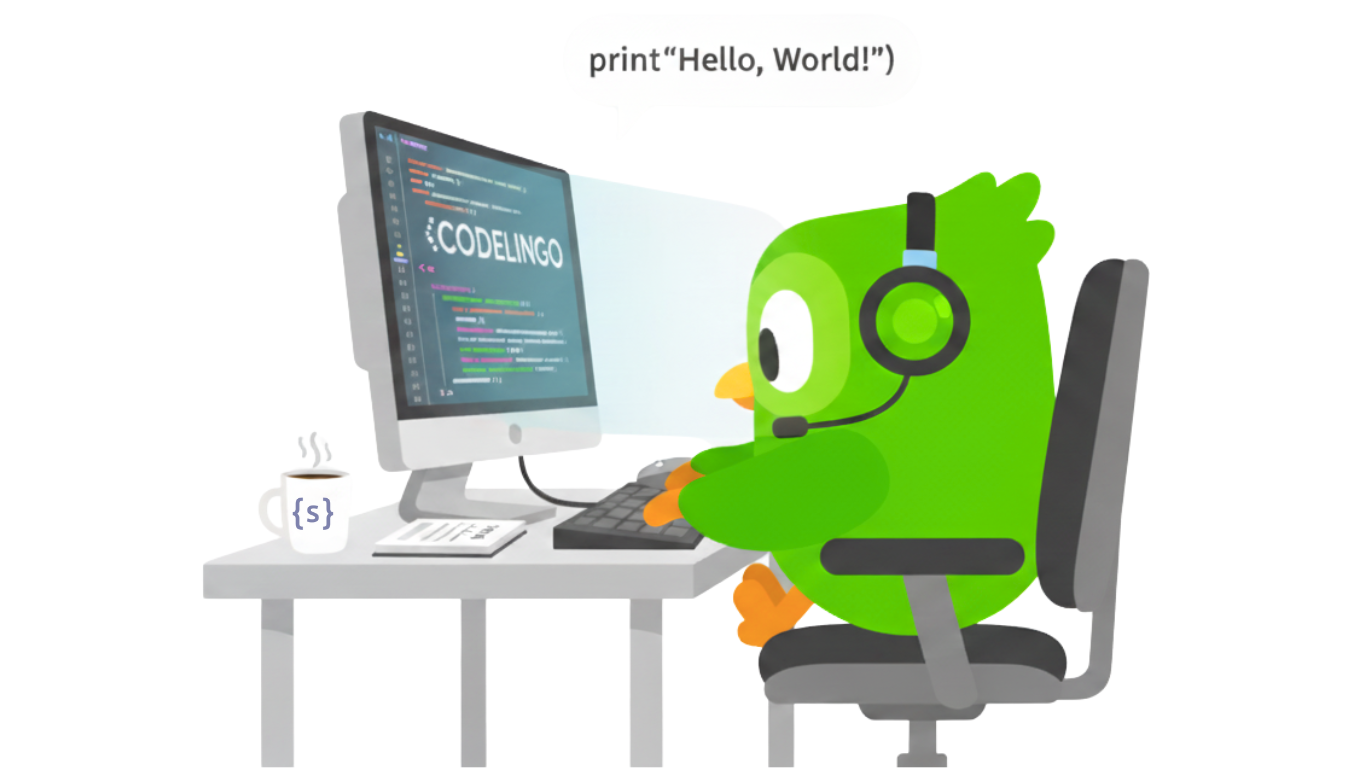
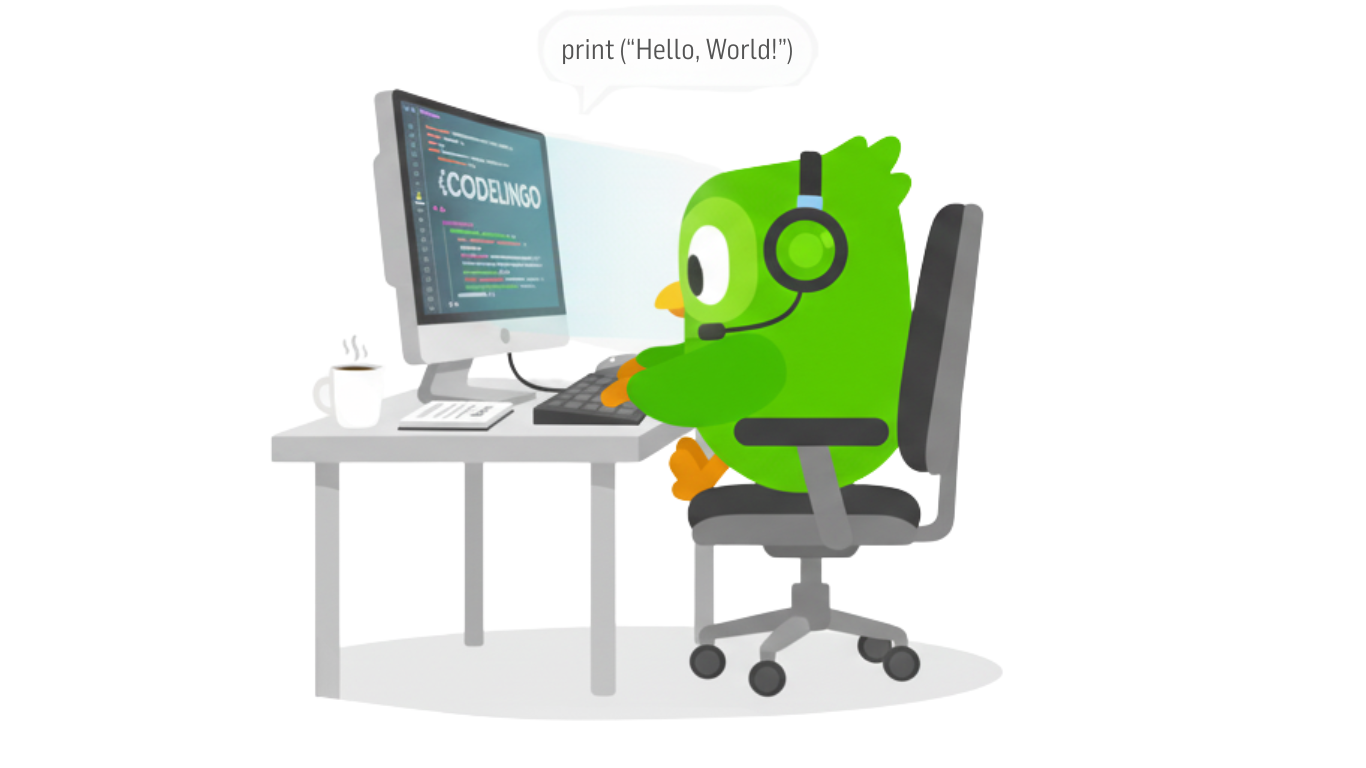
Muda as imagens para svg

diff --git a/src/app/components/HeroSection.tsx b/src/app/components/HeroSection.tsx
@@ -8,7 +8,7 @@ export default function HeroSection() {
     <section className="container mx-auto flex-1 flex items-center py-12 lg:py-24 z-10 mt-16 w-full">
       <div className="grid lg:grid-cols-2 gap-12 items-center w-full">
         <motion.div 
-          className="flex justify-center"
+          className="flex justify-center scale-135"
           initial={{ opacity: 0, x: -50 }}
           whileInView={{ opacity: 1, x: 0 }}
           viewport={{ once: true }}
@@ -17,7 +17,7 @@ export default function HeroSection() {
           <Image 
             src="/codelingo.png" 
             alt="Mascote Codelingo a programar" 
-            width={1920} 
+            width={3840} 
             height={1920} 
             priority
             className="max-w-full h-auto"

diff --git a/src/app/page.tsx b/src/app/page.tsx
@@ -59,20 +59,20 @@ export default function Home() {
       {/* Elementos decorativos */}
       <div className="absolute top-0 right-0 z-0">
         <Image 
-          src="/4.png" 
+          src="/4.svg" 
           alt=""
           width={500} 
           height={500} 
         />
       </div>
 
-      <div className="absolute bottom-0 right-0 z-0 w-full">
+      <div className="absolute bottom-0 z-0 h-1 w-full overflow-visible">
         <Image
-          src="/5.png"
+          src="/5.svg"
           alt=""
-          width={1920}
-          height={400}
-          className="w-full" 
+          width={3840}
+          height={1080}
+          className="w-full align-bottom" 
         />
       </div>
     </main>

diff --git a/src/app/layout.tsx b/src/app/layout.tsx
@@ -6,7 +6,7 @@ import { Geist } from "next/font/google";
 import { TRPCReactProvider } from "@/trpc/react";
 
 export const metadata: Metadata = {
-  title: "Create T3 App",
+  title: "CodeLingo - Aprenda programção do jeito mais divertido",
   description: "Generated by create-t3-app",
   icons: [{ rel: "icon", url: "/favicon.ico" }],
 };
@@ -20,7 +20,7 @@ export default function RootLayout({
   children,
 }: Readonly<{ children: React.ReactNode }>) {
   return (
-    <html lang="en" className={`${geist.variable}`}>
+    <html lang="pt" className={`${geist.variable}`}>
       <body>
         <TRPCReactProvider>{children}</TRPCReactProvider>
       </body>

diff --git a/src/app/components/Cursos.tsx b/src/app/components/Cursos.tsx
@@ -33,7 +33,7 @@ const cursosData = [
   {
     id: 3,
     icon: (
-      <div className="flex space-x-3 h-10 items-center text-verde text-4xl -mt-8">
+      <div className="flex space-x-3 h-18 items-center text-verde text-4xl -mt-8 mb-3">
         <FaMobileAlt />
         <FaLaptop />
       </div>
@@ -48,7 +48,7 @@ export default function CursosSection() {
     <>
       <div className="w-full -mt-40">
         <Image 
-          src="/5.png" 
+          src="/5.svg" 
           alt="" 
           width={1920} 
           height={1920} 
